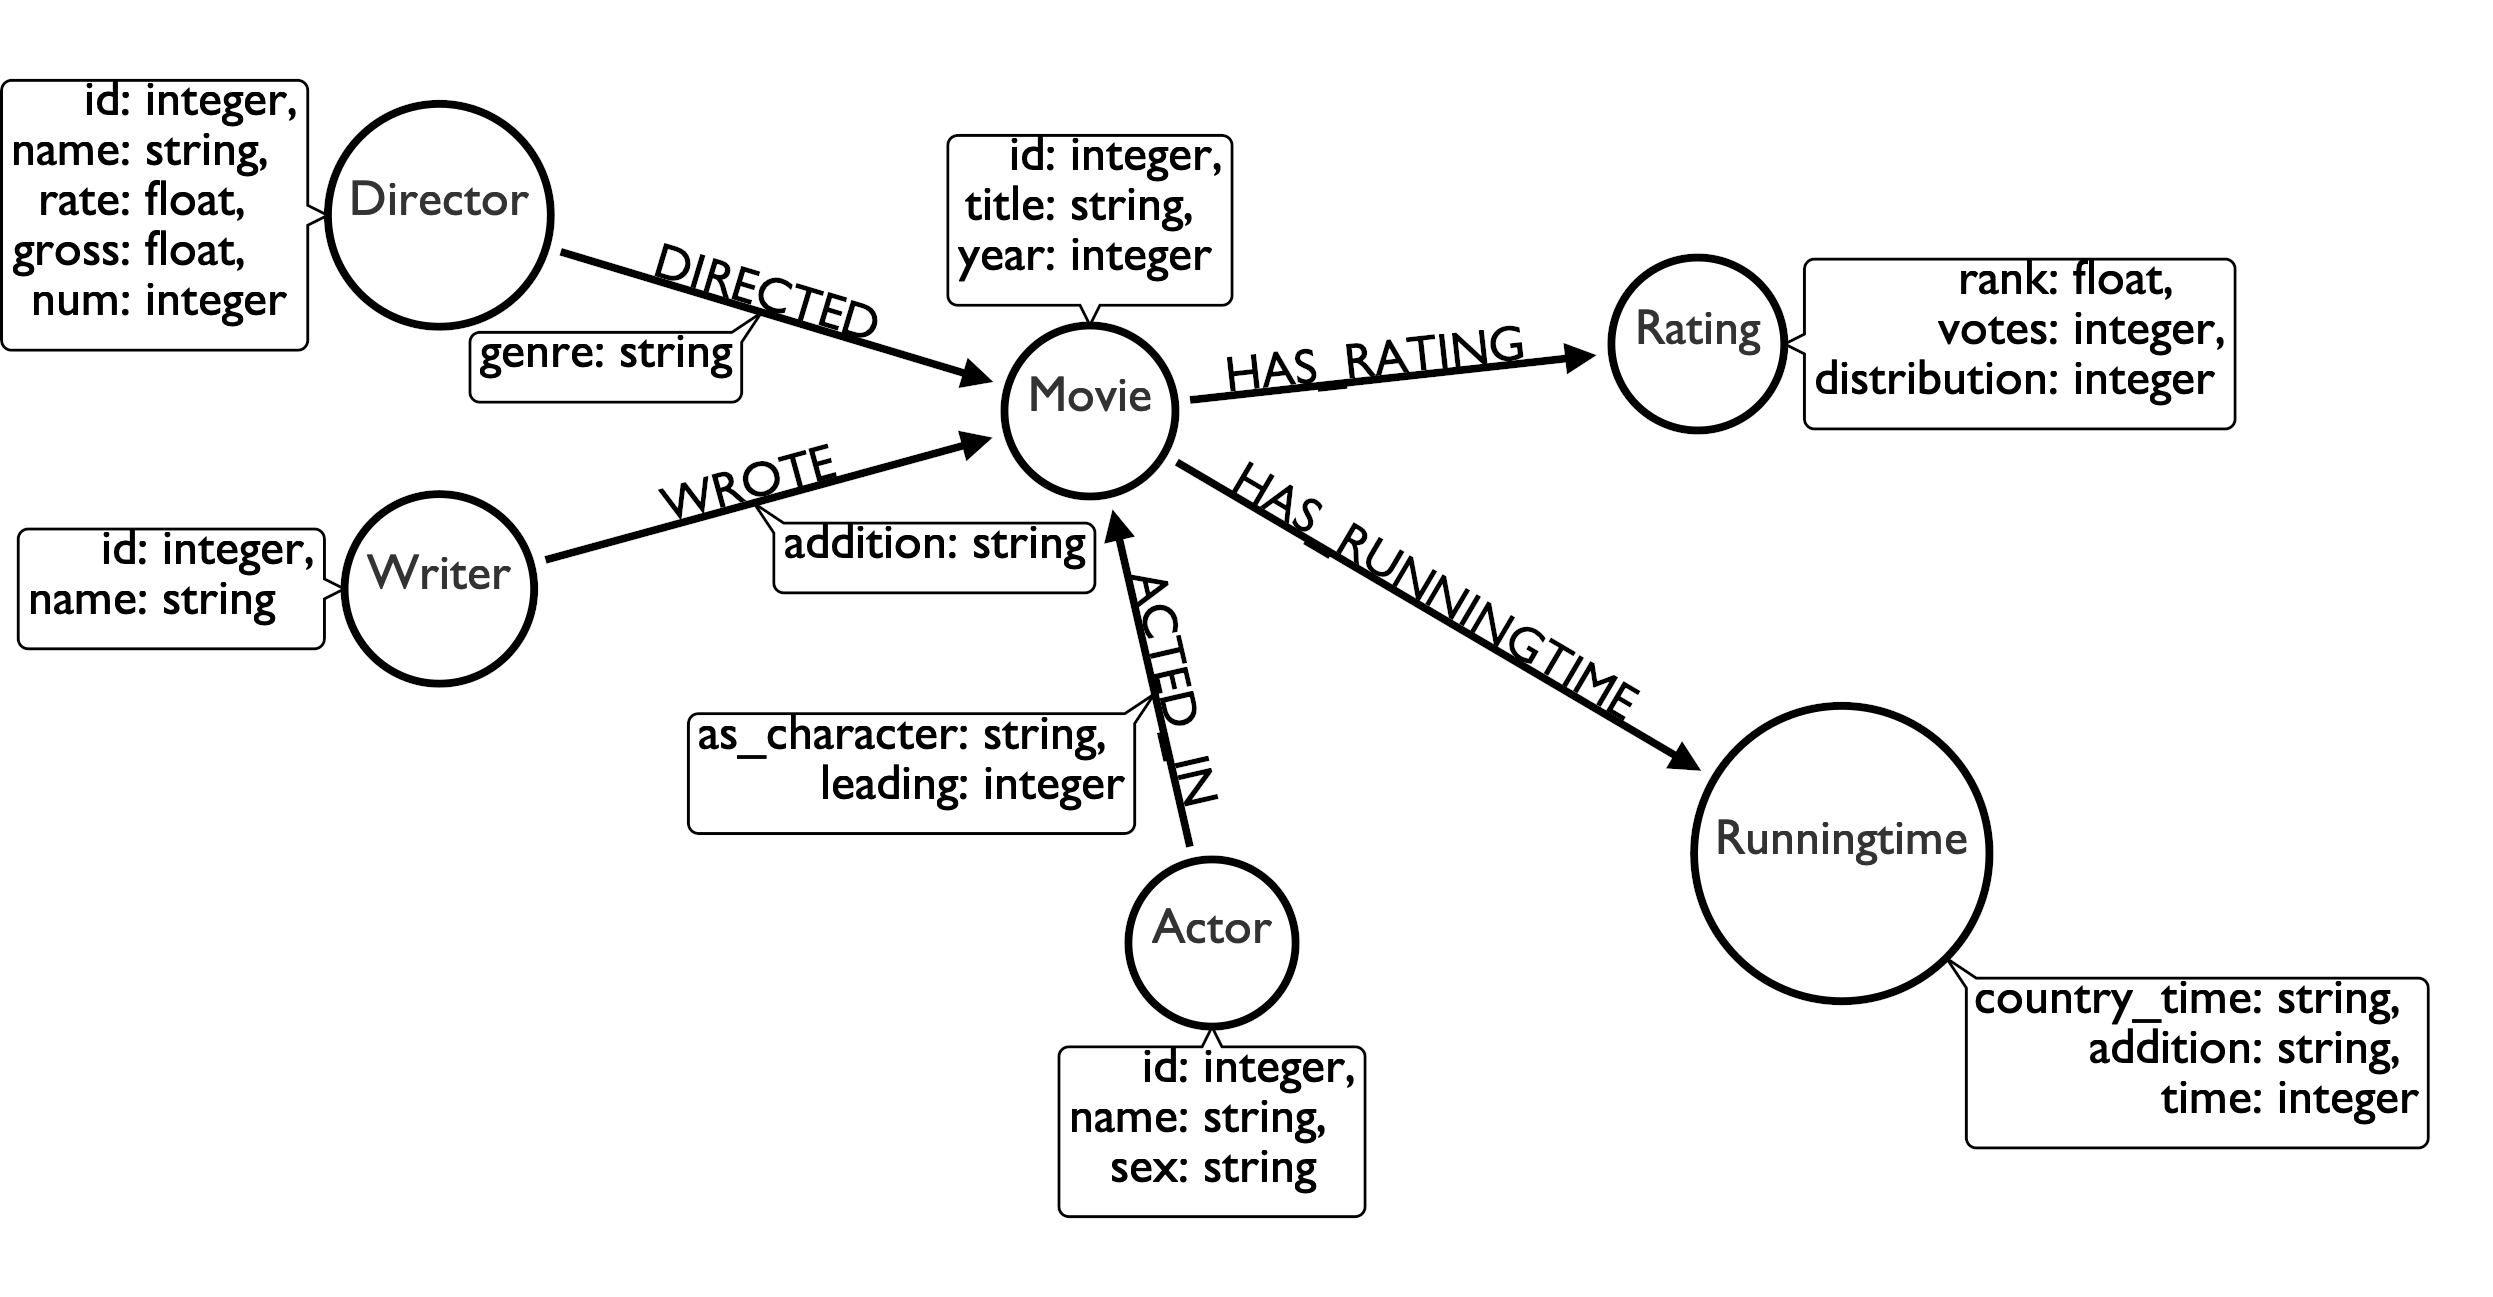
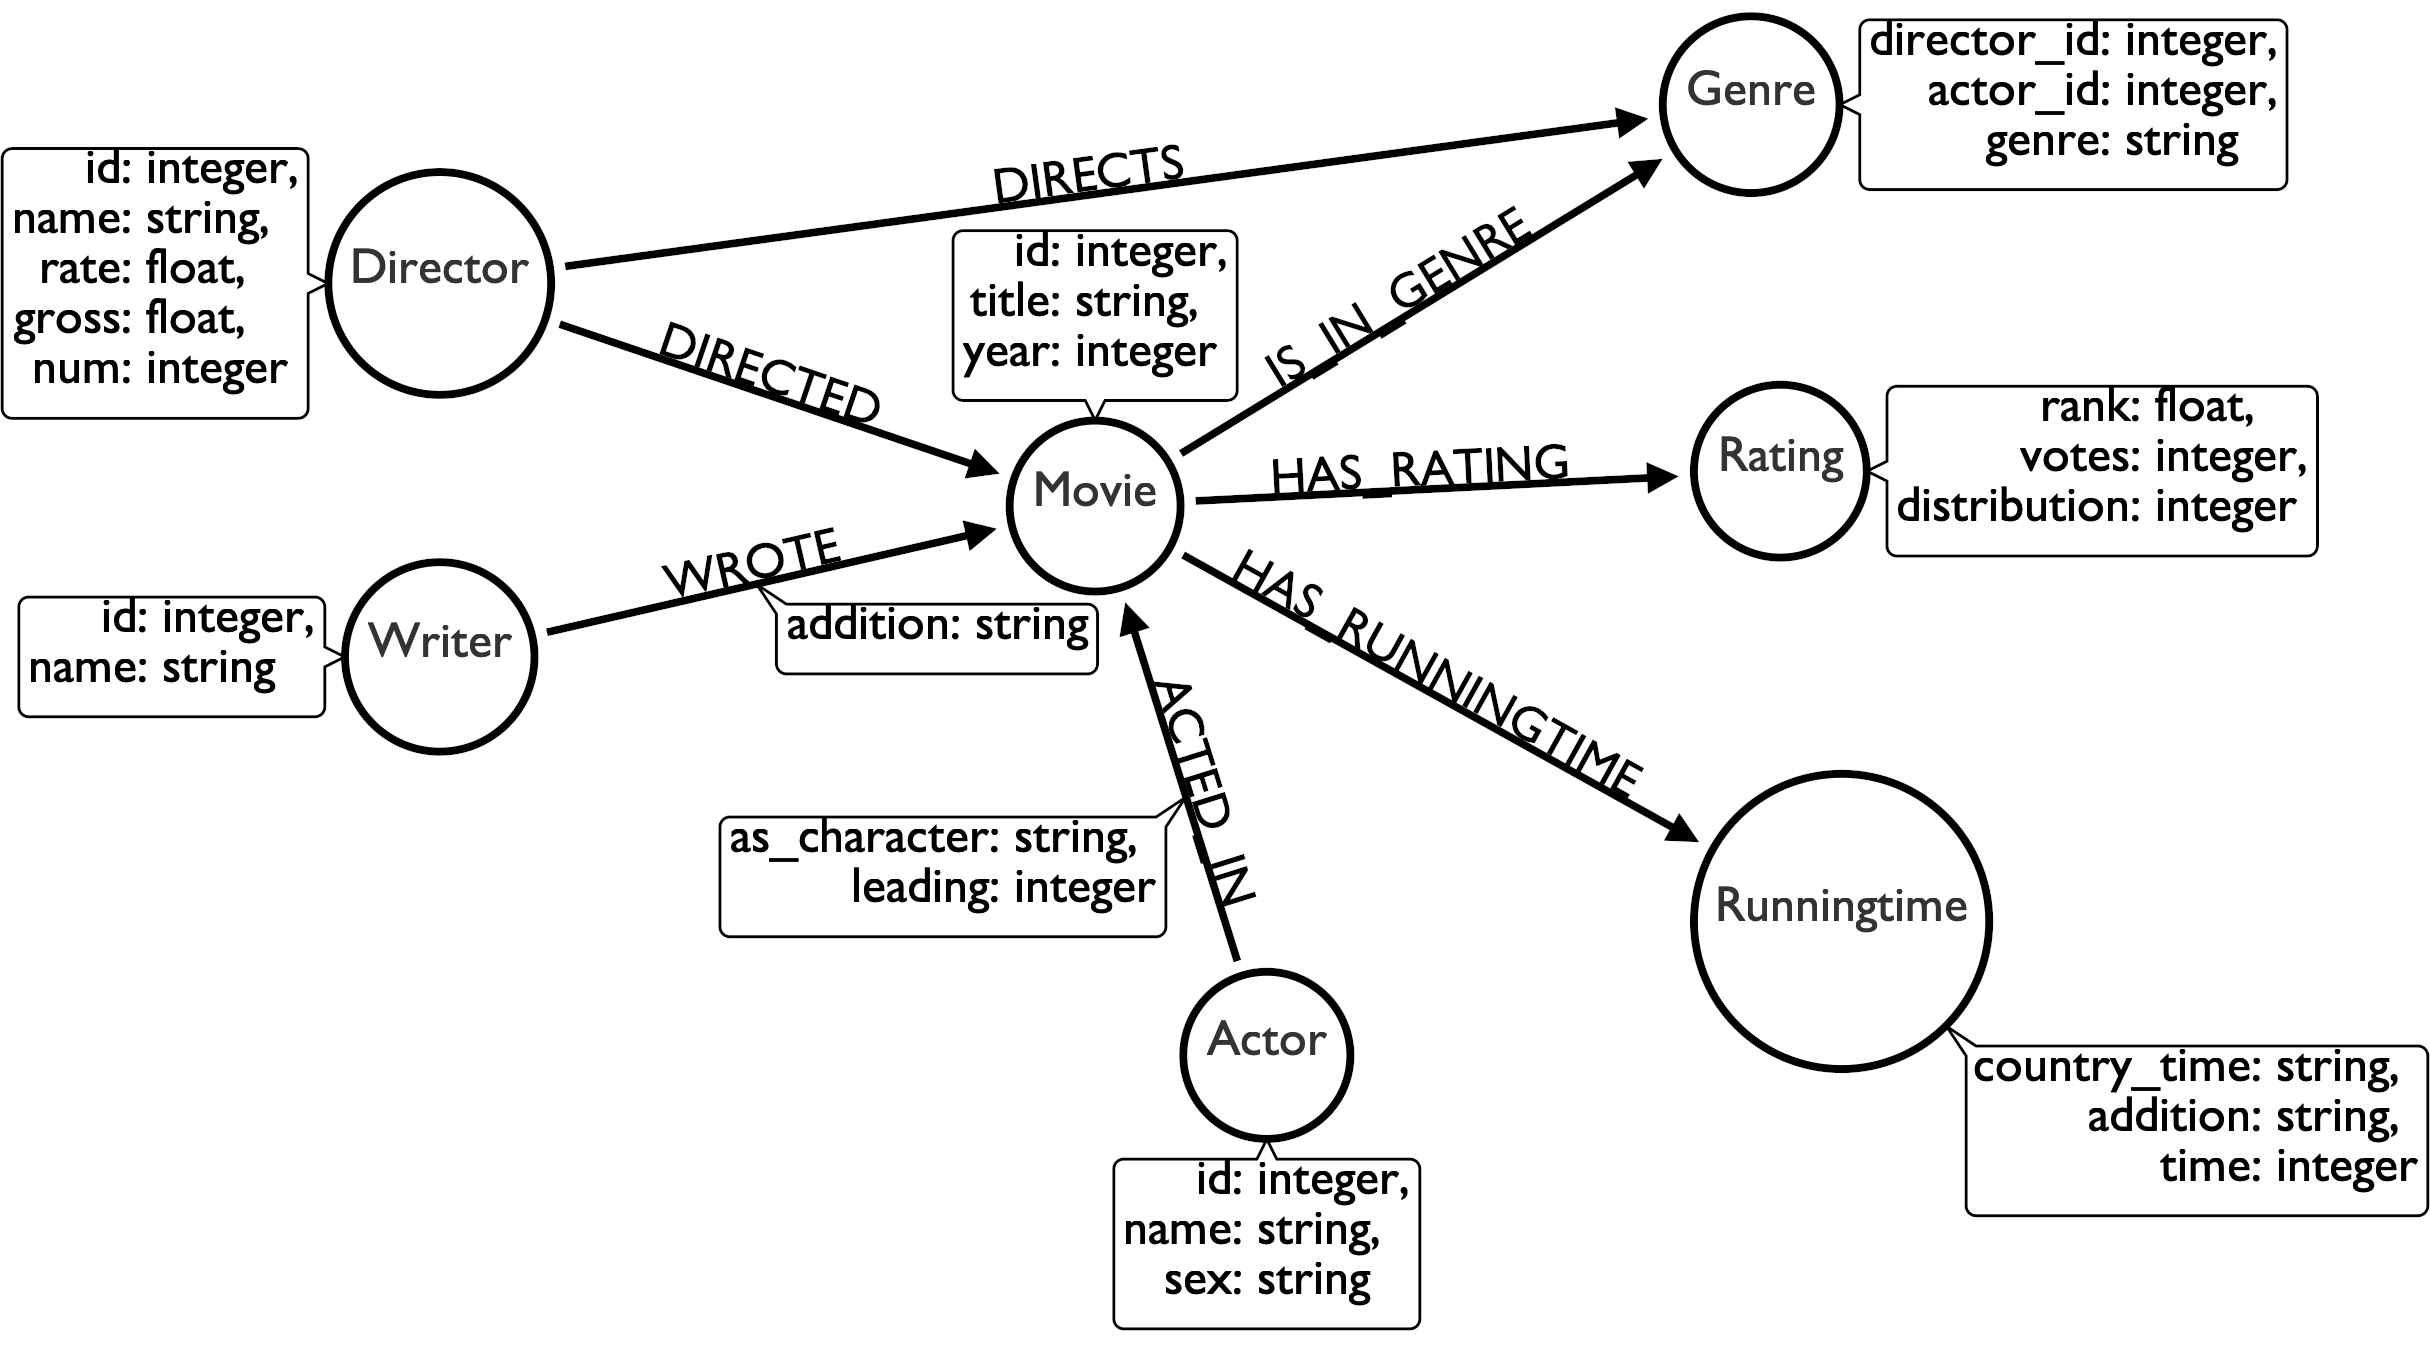
commencing automation script creation

Changed region(s): [[0.0, 0.0617, 1.0, 1.0], [0.5247, 0.0, 0.9568, 0.1542]]

diff --git a/coursework_1/autobot.py b/coursework_1/autobot.py
@@ -1,59 +1,129 @@
 
 # F21BD Coursework 1 Source code
 
-import
+import os
 
+import neo4j
 import pandas
 
 
 # Data Cleanup
 class DataCleanup:
 
-    __slots__ = ()
+    __slots__ = (
+        'data_directory',
+        'cleaned_file_prefix',
+        'file_to_clean'
+    )
 
-    def __init__(self):
+    def __init__(self, file_to_clean):
+
+        # All child instances need the data directory
+        self.data_directory = os.path.join(
+            os.path.dirname(os.path.realpath(__file__)), 'data'
+        )
+
+        # And the prefix of the cleaned file
+        self.cleaned_file_prefix = '_cleaned_'
+
+        # And the file to work on
+        self.file_to_clean = file_to_clean
+    
+    def clean(self):
+        """ Template pattern method:
+            - Formats the text of the file as needed
+        """
         pass
 
 
 class Ratings(DataCleanup):
+    """ Clean the ratings file, distribution column:
+        - set the empty and non-number cells to 0
+    """
 
     __slots__ = ()
+    
+    def clean(self):
+        
+        file = os.path.join(self.data_directory, "ratings.csv")
 
 
 class MoviesToWriters(DataCleanup):
+    """ Clean the moviestowriters file, 'addition' column:
+        - Not sure it needs cleaning ...
+    """
 
     __slots__ = ()
 
 
 class MoviesToActors(DataCleanup):
+    """ Clean the moviestoactors file, 'as_character' column:
+        - Remove angle brackets around character names, and <x>
+          as the same number is in the 'leading' column
+    """
 
     __slots__ = ()
+
+    def clean(self):
+        file = os.path.join(self.data_directory, "moviestoactors.csv")
 
 
 class Movies(DataCleanup):
+    """ Clean the movies file, 'title' column:
+        - Remove quotes on title words, and any non letter and number
+          characters at the beginning of titles
+    """
 
     __slots__ = ()
+
+    def clean(self):
+        file = os.path.join(self.data_directory, "movies.csv")
 
 
 class Directors(DataCleanup):
+    """ Clean the directors file, 'name' column:
+        - remove unicode
+    """
 
     __slots__ = ()
+
+    def clean(self):
+        file = os.path.join(self.data_directory, "directors.csv")
 
 
 class Writers(DataCleanup):
+    """ Clean the writers file, 'name' column:
+        - remove unicode
+    """
 
     __slots__ = ()
+
+    def clean(self):
+        file = os.path.join(self.data_directory, "writers.csv")
 
 
 class Actors(DataCleanup):
+    """ Clean the directors file, 'name' column:
+        - Remove quotes on title words, and any non letter and number
+          characters at the beginning of names
+    """
 
     __slots__ = ()
+
+    def clean(self):
+        file = os.path.join(self.data_directory, "actors.csv")
 
 
 class RunningTimes(DataCleanup):
+    """ Clean the runningtimes file, 'time' column:
+        - remove numbers and leave countries only (remove appended time) as same as time1 column
+        - rename time column to country, and time1 to time
+    """
 
     __slots__ = ()
 
+    def clean(self):
+        file = os.path.join(self.data_directory, "runningtimes.csv")
 
 
 # Tasks

diff --git a/coursework_1/cypher/task_2_refix.md b/coursework_1/cypher/task_2_refix.md
@@ -1,0 +1,93 @@
+# Load data into database
+Official LOAD CSV:
+- Guide: https://neo4j.com/developer/guide-import-csv/
+- Manual: https://neo4j.com/docs/cypher-manual/4.0/clauses/load-csv/
+
+Sample projects:
+- 
+
+
+## Tips:
+- Use [PERIODIC COMMIT](https://neo4j.com/docs/cypher-manual/current/query-tuning/using/#query-using-periodic-commit-hint)
+- Run import commands first, then create relationships. Every import and relationship creation as a separate command.
+
+#### Constraints
+(all entered as separate commands)
+- `CREATE CONSTRAINT ON (a:Actor) ASSERT a.id IS UNIQUE`
+- `CREATE CONSTRAINT ON (d:Director) ASSERT d.id IS UNIQUE`
+- `CREATE CONSTRAINT ON (m:Movie) ASSERT m.id IS UNIQUE`
+
+
+## Entities 
+#### Actors
+    USING PERIODIC COMMIT 1024
+    LOAD CSV WITH HEADERS FROM "file:///Users/timkofu/code_base/F21BD/coursework_1/data/actors.csv" AS row FIELDTERMINATOR ';'
+    MERGE (a:Actor {id: toInteger(row.actorid), name: row.name, sex: row.sex})
+    RETURN count(a)
+
+#### Directors
+    USING PERIODIC COMMIT 1024
+    LOAD CSV WITH HEADERS FROM "file:///Users/timkofu/code_base/F21BD/coursework_1/data/directors.csv" AS row FIELDTERMINATOR ';'
+    MERGE (d:Director {id: toInteger(row.directorid), name: row.name, rate: toFloat(row.rate), gross: toFloat(row.gross), num: toInteger(row.num)})
+    RETURN count(d)
+
+#### Movies
+    USING PERIODIC COMMIT 1024
+    LOAD CSV WITH HEADERS FROM "file:///Users/timkofu/code_base/F21BD/coursework_1/data/movies.csv" AS row FIELDTERMINATOR ';'
+    MERGE (m:Movie {id: toInteger(row.movieid), title: row.title, year: toInteger(row.year)})
+    RETURN count(m)
+
+#### Writers
+    USING PERIODIC COMMIT 1024
+    LOAD CSV WITH HEADERS FROM "file:///Users/timkofu/code_base/F21BD/coursework_1/data/writers.csv" AS row FIELDTERMINATOR ';'
+    MERGE (w:Writer {id: toInteger(row.writerid), name: row.name})
+    RETURN count(w)
+
+## Relationships
+
+#### movie->rating
+    // This is are movie properties, as they are attributes
+    // unique to a movie
+    USING PERIODIC COMMIT 1024
+    LOAD CSV WITH HEADERS FROM "file:///Users/timkofu/code_base/F21BD/coursework_1/data/ratings.csv" AS row FIELDTERMINATOR ';'
+    MATCH (m:Movie {id: toInteger(row.movieid)})
+    SET m.rank = toFloat(row.rank)
+    SET m.votes = toInteger(row.votes)
+    SET m.distribution = row.distribution // Has many non-number strings and some blank cells
+
+#### movie->director
+    USING PERIODIC COMMIT 1024
+    LOAD CSV WITH HEADERS FROM "file:///Users/timkofu/code_base/F21BD/coursework_1/data/moviestodirectors.csv" AS row FIELDTERMINATOR ';'
+    MATCH (m:Movie {id: toInteger(row.movieid)})
+    MATCH (d:Director {id: toInteger(row.directorid)})
+    CREATE (m) -[:HAS_A {genre: row.genre}]-> (d)
+
+#### movie->running_time
+    // This is are movie properties, as they are attributes
+    // unique to a movie
+    USING PERIODIC COMMIT 1024
+    LOAD CSV WITH HEADERS FROM "file:///Users/timkofu/code_base/F21BD/coursework_1/data/runningtimes.csv" AS row FIELDTERMINATOR ';'
+    MATCH (m:Movie {id: toInteger(row.movieid)})
+    SET m.country_time = row.time // Has mixed integer and string cells
+    SET m.addition = row.addition // Many blank cells
+    SET m.actual_time = toInteger(row.time1)
+
+#### movie->writer
+    USING PERIODIC COMMIT 1024
+    LOAD CSV WITH HEADERS FROM "file:///Users/timkofu/code_base/F21BD/coursework_1/data/moviestowriters.csv" AS row FIELDTERMINATOR ';'
+    MATCH (m:Movie {id: toInteger(row.movieid)})
+    MATCH (w:Writer {id: toInteger(row.writerid)})
+    CREATE (m) -[:HAS_A {addition: row.addition}]-> (w)
+
+
+#### movie->actor
+    USING PERIODIC COMMIT 1024
+    LOAD CSV WITH HEADERS FROM "file:///Users/timkofu/code_base/F21BD/coursework_1/data/moviestoactors.csv" AS row FIELDTERMINATOR ';'
+    MATCH (m:Movie {id: toInteger(row.movieid)})
+    MATCH (a:Actor {id: toInteger(row.actorid)})
+    WITH m,a
+    CREATE (m) -[r:HAS_AN {as_character: split(split(row.as_character,"[")[1], "]")[0], leading: toInteger(row.leading)}]-> (a)
+
+
+### To-Do
+- None of these cater for blank fields (they are empty strings by default)
